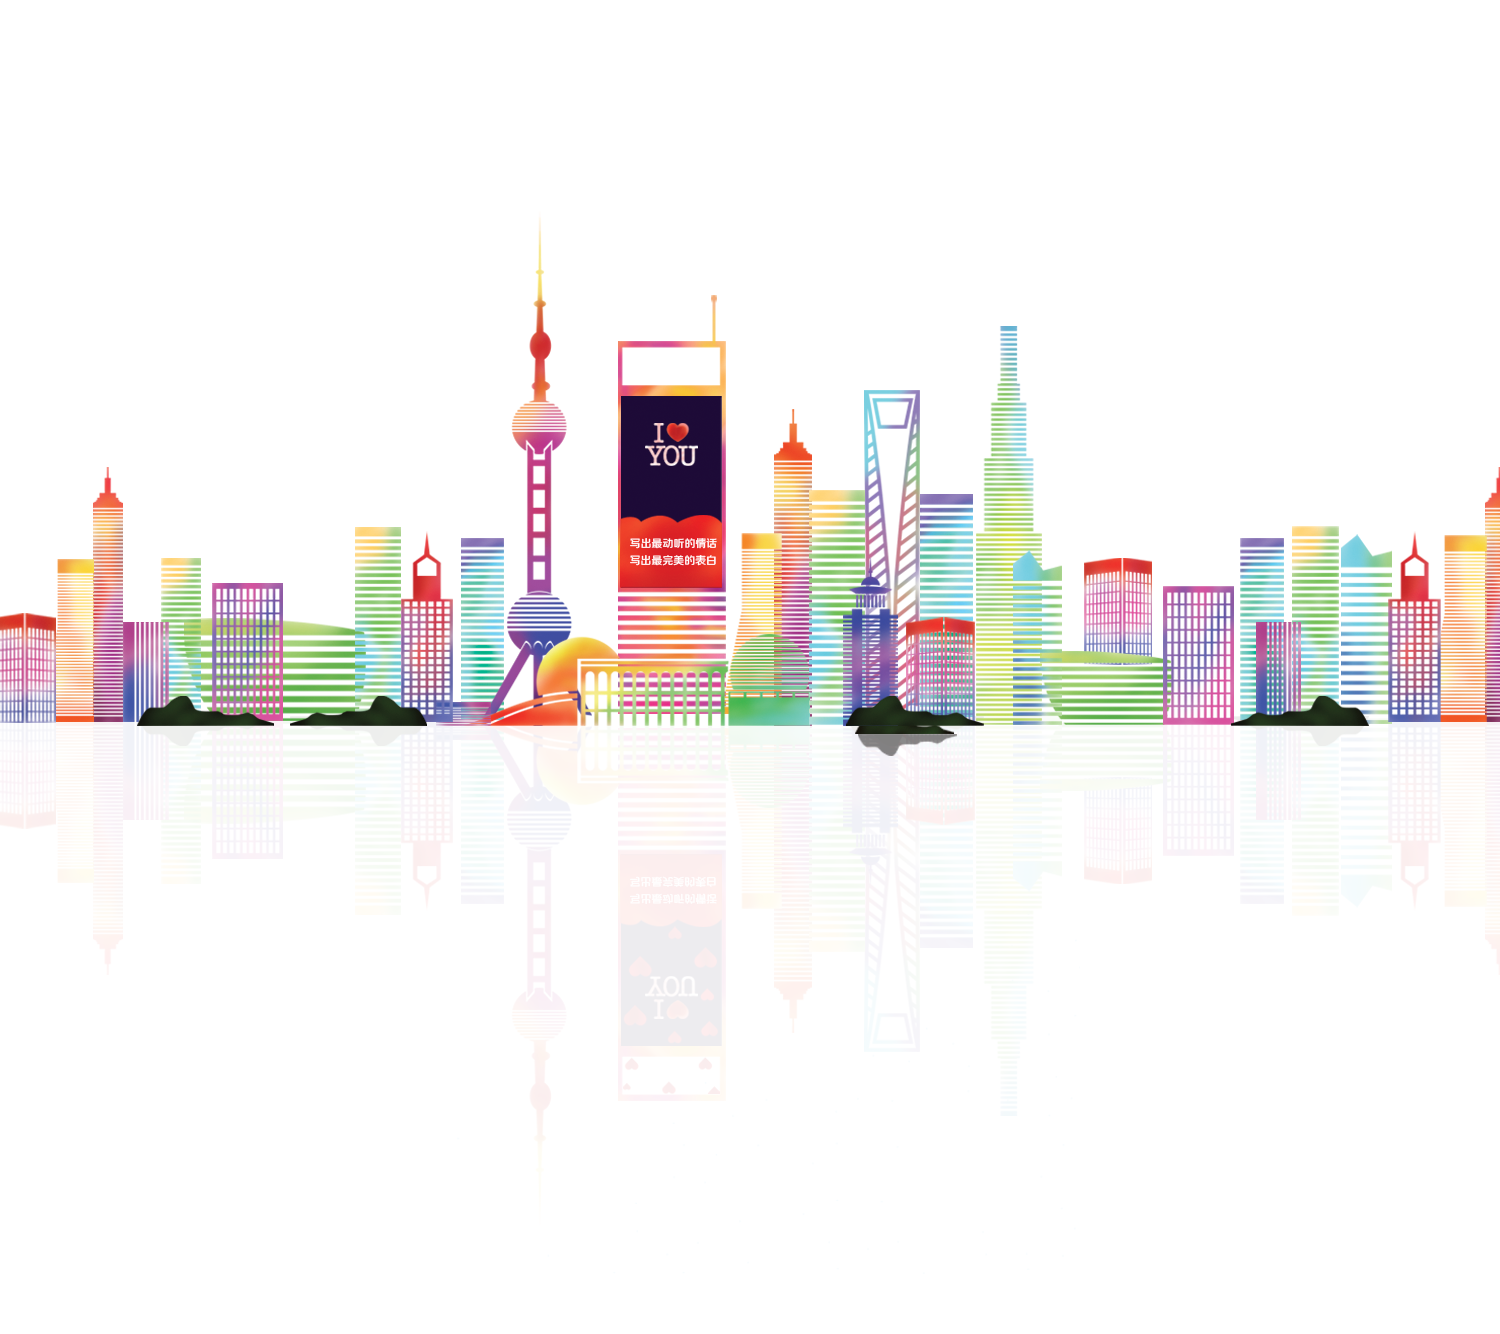
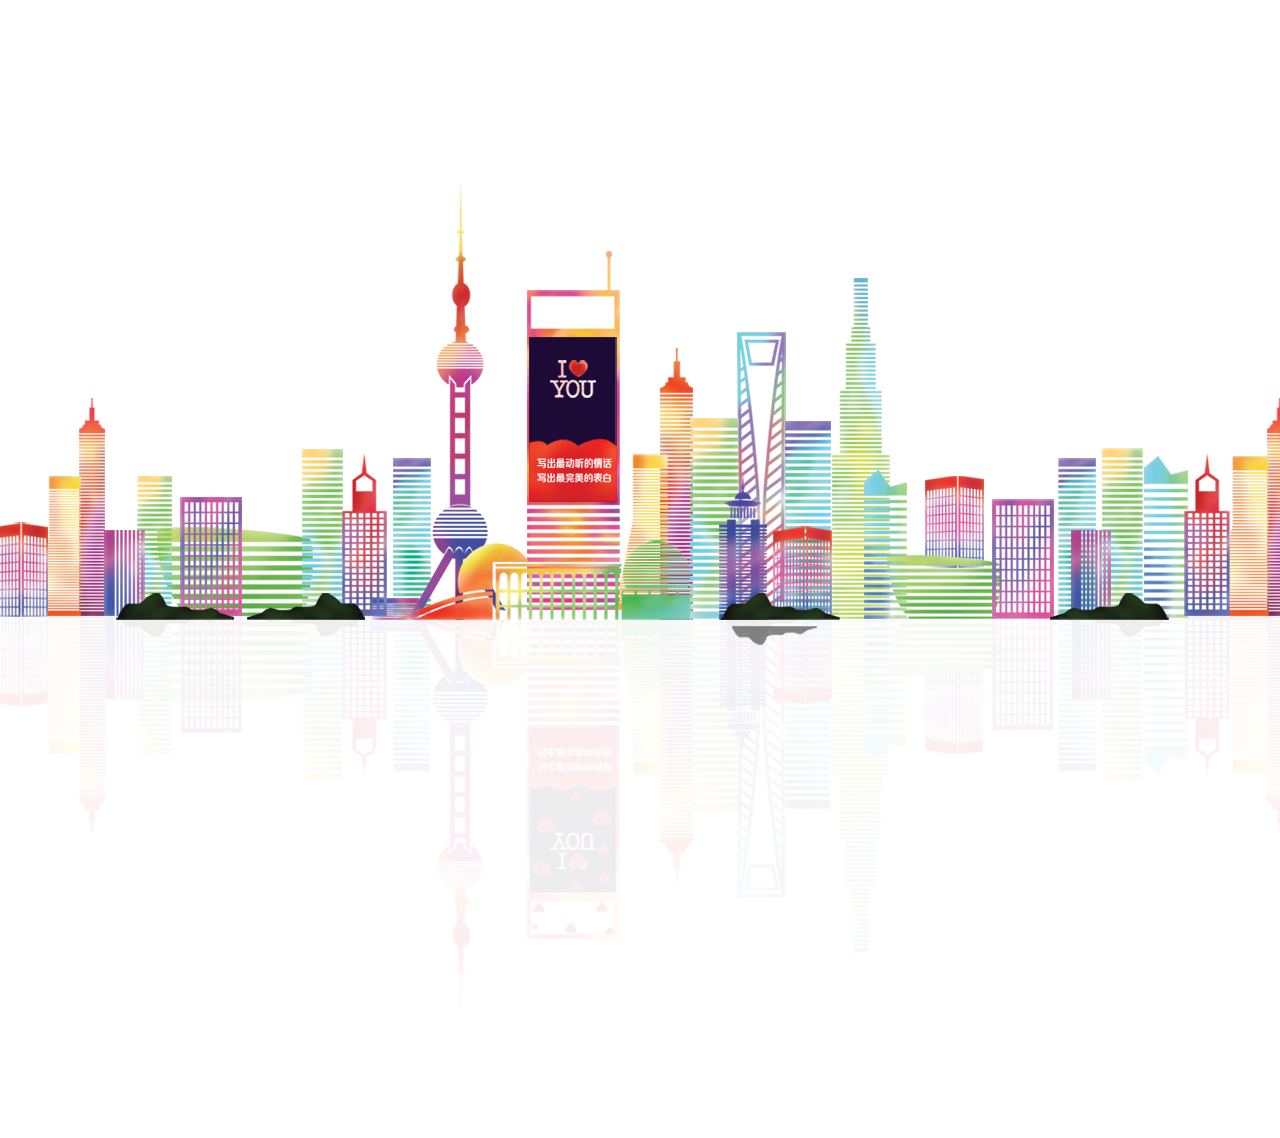
f

diff --git a/css/style.css b/css/style.css
@@ -67,29 +67,22 @@ a{color:#000; text-decoration:none;}
   padding-top: 635px;
   font-size: 28px;
 }
-.dsf {
-	position: absolute;
-	top: 0;
-	left: 0;
-	z-index: 99999999;
-	font-size: 20px;
-	color: red;
-}
 /* 首页 */
 .indexBg {
 	background: url(../images/indexBg.jpg) no-repeat center center;
+	background-size: 1280px 1038px;
 	padding-top: 100px;
 	height: 1040px;
 	top:-100px
 }
 
 .floorBg {
-	background: url(../images/indexFloor.png) no-repeat -430px top;
+	background: url(../images/indexFloor.png) no-repeat -320px 90px;
 	height: 1040px;
 	left: 0;
 	width: 640px;
 	top: 0;
-	z-index: 2;
+	z-index: 4;
 	/*transition: background-position 0.5s linear,transform 0.5s linear;
 	-webkit-transition: background-position 0.5s linear,transform 0.5s linear;*/
 }/*background-position: -440px 110px;*/
@@ -149,37 +142,39 @@ a{color:#000; text-decoration:none;}
   }
 }
 .indexCar {
-	background: url(../images/indexCar.png) no-repeat 0 -820px;
-	background-size:100% 1334px;
-	top:720px;
+	background: url(../images/indexCar.png) no-repeat 0 -640px;
+	background-size:640px 1038px;
+	top:690px;
 	left: 0;
 	width: 640px;
 	height: 380px;
 }
+.indexTitle {
+	background: url(../images/indexCar.png) no-repeat;
+	background-size:640px 1038px;
+	top: 0;
+	left: 0;
+	width: 640px;
+	height: 200px;
+}
 .indexTip {
 	background: url(../images/indexCar.png) no-repeat;
-	background-size:100% 1334px;
-	top: -70px;
+	background-size:640px 1038px;
+	background-position: 0 -100px;
+	top: 0;
 	left: 0;
 	width: 640px;
 	height: 360px;
 	z-index: 3;
 }
-.indexTitle {
-	background: url(../images/indexTitle.png) no-repeat;
-	background-size:100% 100%;
-	top:0;
-	left: 0;
-	width: 640px;
-	height: 220px;
-}
+
 .indexHeart {
-	width: 100px;
-	height: 169px;
+	width: 87px;
+	height: 143px;
 	background: url(../images/indexHeart.png) no-repeat;
 	background-size:100% 100%;
-	left: 192px;
-  top: 346px;
+	left: 209px;
+  top: 386px;
 }
 .indexBig {
 	width: 38px;
@@ -191,6 +186,7 @@ a{color:#000; text-decoration:none;}
 	top: 356px;
   animation:indexBig 1s infinite linear;
   -webkit-animation:indexBig 1s infinite linear;
+	z-index: 4;
 }
 .indexBigAnim {
 	left: 332px;
@@ -296,14 +292,14 @@ a{color:#000; text-decoration:none;}
   }
 }
 .indexShip0 {
-	width: 365px;
-	height: 197px;
+	width: 312px;
+	height: 169px;
 	left: -365px;
-  top: 637px;
+  top: 610px;
 	background: url(../images/indexShip0.png) no-repeat;
 	background-size:100% 100%;
-	animation:indexShip0 10s infinite linear;
-	-webkit-animation:indexShip0 10s infinite linear;
+	/*animation:indexShip0 10s infinite linear;
+	-webkit-animation:indexShip0 10s infinite linear;*/
 }
 @-webkit-keyframes indexShip0{
 	0%{

diff --git a/js/index.js b/js/index.js
@@ -16,7 +16,6 @@ $(function () {
     'images/indexShip1.png',
     'images/indexShip2.png',
     'images/indexShip3.png',
-    'images/indexTitle.png',
     'images/indexHeart.png',
     'images/indexBig.png',
     'images/indexView.jpg'
@@ -77,7 +76,7 @@ $(function () {
       $floorBg.css("backgroundPosition", -430 + "px " + 0 + "px")
       .animate({
         'background-position': '-350px 150px',
-        'transform': 'translate(0,120px) scale(1.9)',
+        'transform': 'scale(1.9)',
       }, function () {
         if (!isGoOut) {
           $indexBig.addClass('indexBigAnim').show();
@@ -92,19 +91,21 @@ $(function () {
     }
     function triggerBig() {
       bOne = !bOne;
-      bCanGravity = !bOne;
+
       if (bOne) {
         toBig();
+        bCanGravity = false;
       }else {
-        $indexBig.removeClass('indexBigAnim').show();
+        $indexBig.removeClass('indexBigAnim').hide();
         $('#indexView').removeClass('showAnim');
         $floorBg.animate({
           'background-position': '-430px top',
-      		'transform': 'translate(0,0) scale(1)',
+      		'transform': 'scale(1)',
         },function () {
+            $indexBig.hide();
             $('#bigHide,#indexCircleBox1,#indexHeart').show();
         });
-
+        bCanGravity = true;
       }
     }
   }

diff --git a/index.html b/index.html
@@ -15,7 +15,7 @@
 	<div id="loadingBg" class="o0 loadingBg">
 		<p class="cfff tac loadingTip">Loading&nbsp;<span id="loading">0</span>%&nbsp;...</p>
 	</div>
-	<div id="indexBg" class="posCenter indexBg">
+	<div id="indexBg" class="dn posCenter indexBg">
 		<div id="floorBg" class="porA floorBg"><!--楼-->
 			<div id="indexHeart" class="porA indexHeart changeWord">心</div>
 			<div id="indexView" class="o0 porA indexView"><!--文字跑马灯-->
@@ -47,9 +47,6 @@
 			</a>
 		</div>
 	</div>
-</div>
-<div class="dsf">
-
 </div>
 </body>
 </html>
